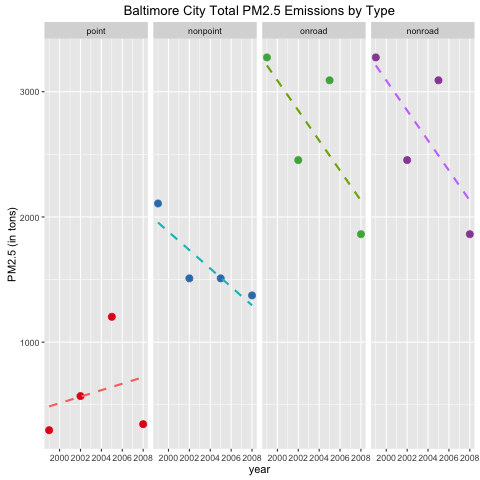
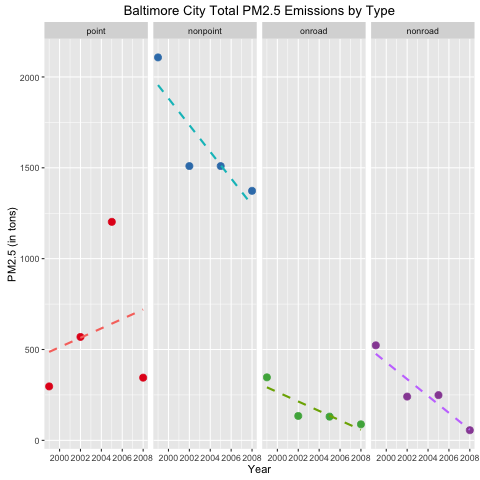
corrected plot3 code errors and created plot4 code

diff --git a/exploratorydata/Project2/README.md b/exploratorydata/Project2/README.md
@@ -11,3 +11,8 @@
 ### Plot 3
 
 ![plot of Baltimore PM2.5 by Source](plot3.png)
+
+
+### Plot 4
+
+![plot of Baltimore PM2.5 by Source](plot4.png)
